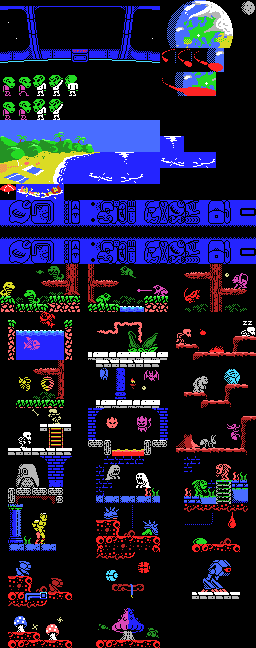
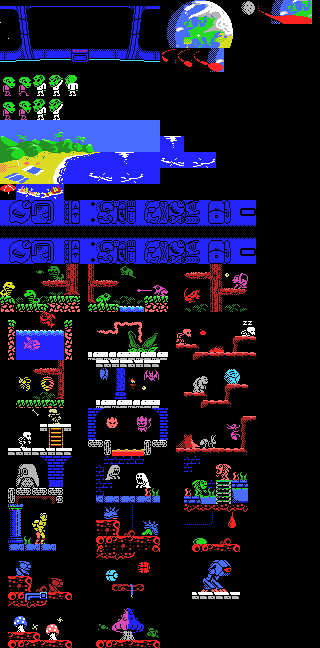
started working on ending B. UFO scene adapted for the powerstone attack

diff --git a/java/src/xspelunker2/Text.java b/java/src/xspelunker2/Text.java
@@ -400,12 +400,12 @@ public class Text {
 //        addLineSafe(lines_with_constant_page3, "Xavier: ...", "AMBUSH_ELAINE_9", 112);
         addLineSafe(lines_with_constant_page3, "Elaine: Ok, then are we ready to activate the calendar stone? More aliens will be coming soon for sure!", "AMBUSH_ELAINE_10", 112);
 
-        addLineSafe(lines_with_constant_page3, "PA-PAT-TZA-JA CHANAL PAKAL", "CALENDAR_ACTIVATED_C_1", 112);
+        addLineSafe(lines_with_constant_page3, "PA-PAT-TZA-JA CHANAL PAKAL", "CALENDAR_ACTIVATED_C_1", 112);  // It was erected heavinly shield
         addLineSafe(lines_with_constant_page3, "Xavier: What happened?! What did we do?!", "CALENDAR_ACTIVATED_C_2", 112);
         addLineSafe(lines_with_constant_page3, "Elaine: Did you hear that voice? It spoke in Maya! I did not fully understand, but it said something about... creating a shield?", "CALENDAR_ACTIVATED_C_3", 112);
         addLineSafe(lines_with_constant_page3, "Elaine: I think this is it! I think the Nexus is creating a shield to prevent the aliens from coming!", "CALENDAR_ACTIVATED_C_4", 112);
         addLineSafe(lines_with_constant_page3, "Xavier: Well, I hope you are right! The calendar seems to have crumbled after that! I am not sure this room is safe anymore, let's get out of here!", "CALENDAR_ACTIVATED_C_5", 112);
-                
+
         addLineSafe(lines_with_constant_page3, "Elaine: We must hurry, I blocked the cave the Aliens were using, but I doubt that'll stop them for very long...", "ELAINE_CALENDAR_1", 112);
         addLineSafe(lines_with_constant_page3, "Elaine: Why did I come? Well, I was of no more use back home anymore!", "ELAINE_CALENDAR_2", 112);
         addLineSafe(lines_with_constant_page3, "Elaine: Btw, dynamite in Palenque is crazy expensive. Almost went broke to get what I used!", "ELAINE_CALENDAR_3", 112);
@@ -787,6 +787,26 @@ public class Text {
         addLineSafe(lines_with_constant_page3, "Elaine: Oh my god, without asking me first?! And what do you want firestones for?!", "ENDING_C_PLUS_BEACH_11", 22*6);
         addLineSafe(lines_with_constant_page3, "Xavier: I was hoping you would have some ideas...", "ENDING_C_PLUS_BEACH_12", 22*6);
         addLineSafe(lines_with_constant_page3, "Elaine: ...", "ENDING_C_PLUS_BEACH_13", 22*6);
+        
+        // Ending B specific part:
+        addLineSafe(lines_with_constant_page4, "PA-PAT-TZA-JA CHANAL PAKAL", "CALENDAR_ACTIVATED_B_1", 112);  // It was erected heavinly shield
+        addLineSafe(lines_with_constant_page4, "BA'ATEL KA'AJAL", "CALENDAR_ACTIVATED_B_1A", 112);  // Fight started
+        // addLineSafe(lines_with_constant_page3, "Xavier: What happened?! What did we do?!", "CALENDAR_ACTIVATED_B_2", 112);
+        addLineSafe(lines_with_constant_page4, "Elaine: Did you hear that voice? It spoke in Maya! I did not fully understand, but it said something about... creating a shield and starting an attack?", "CALENDAR_ACTIVATED_B_3", 112);
+        addLineSafe(lines_with_constant_page4, "Elaine: I think this is it! I think the Nexus is starting a counterattack against the aliens!", "CALENDAR_ACTIVATED_B_4", 112);
+        // addLineSafe(lines_with_constant_page4, "Xavier: Well, I hope you are right! The calendar seems to have crumbled after that! I am not sure this room is safe anymore, let's get out of here!", "CALENDAR_ACTIVATED_B_5", 112);
+        
+        addLineSafe(lines_with_constant_page4, "The specimens have triggered the Nexus. The force field around Earth is starting to form. But that is not all...", "ENDING_B_UFO_8", 22*4);
+        // addLineSafe(lines_with_constant_page4, "By the Black Holes of Orion! It was a mere hunk of stone! How could elite warriors be outwitted by soft-shelled bipeds?", "ENDING_B_UFO_9", 22*4);
+        // addLineSafe(lines_with_constant_page4, "Tactical assessment! What are our contingencies?", "ENDING_B_UFO_10", 22*4);
+        addLineSafe(lines_with_constant_page4, "The nexus seems to be preparing to attack us sir.", "ENDING_B_UFO_11", 22*4);
+        addLineSafe(lines_with_constant_page4, "Attack?! Us?! By the Nebula of Sirius! What do these antenna-less maggots expect to achieve?!", "ENDING_B_UFO_12", 22*4);
+        addLineSafe(lines_with_constant_page4, "The energy readings are off the charts sir. If our sensors are correct, our shields will not resits. I... I... I recommend retreat.", "ENDING_B_UFO_13", 22*4);
+        addLineSafe(lines_with_constant_page4, "Retreat?! I'll have the High Council dissect your larvae for even suggesting this! Get out of my sight and power the shields!", "ENDING_B_UFO_14", 22*6);
+        addLineSafe(lines_with_constant_page4, "But sir! We must retreat before it's too late! I insist!", "ENDING_B_UFO_15", 22*4);
+        addLineSafe(lines_with_constant_page4, "Nonsense!!", "ENDING_B_UFO_16", 22*4);
+        addLineSafe(lines_with_constant_page4, "Wait, what is that?!", "ENDING_B_UFO_17", 22*4);
+        addLineSafe(lines_with_constant_page4, "Nooooooooo.......!!", "ENDING_B_UFO_18", 22*4);
         
         // Ending credits and text, page 1:
         addLineSafe(lines_with_constant_page3, "Ending C: Congratulations! You", "ENDING_C_PAGE_1_1", 20);

diff --git a/java/src/xspelunker2/Ending.java b/java/src/xspelunker2/Ending.java
@@ -76,8 +76,8 @@ public class Ending {
             }
         }
         // powerstone attack frame 4 (7x3):
-        for(int i = 6;i<9;i++) {
-            for(int j = 20;j<27;j++) {
+        for(int i = 0;i<3;i++) {
+            for(int j = 32;j<39;j++) {
                 data.add(nametable[j][i]);
             }
         }
